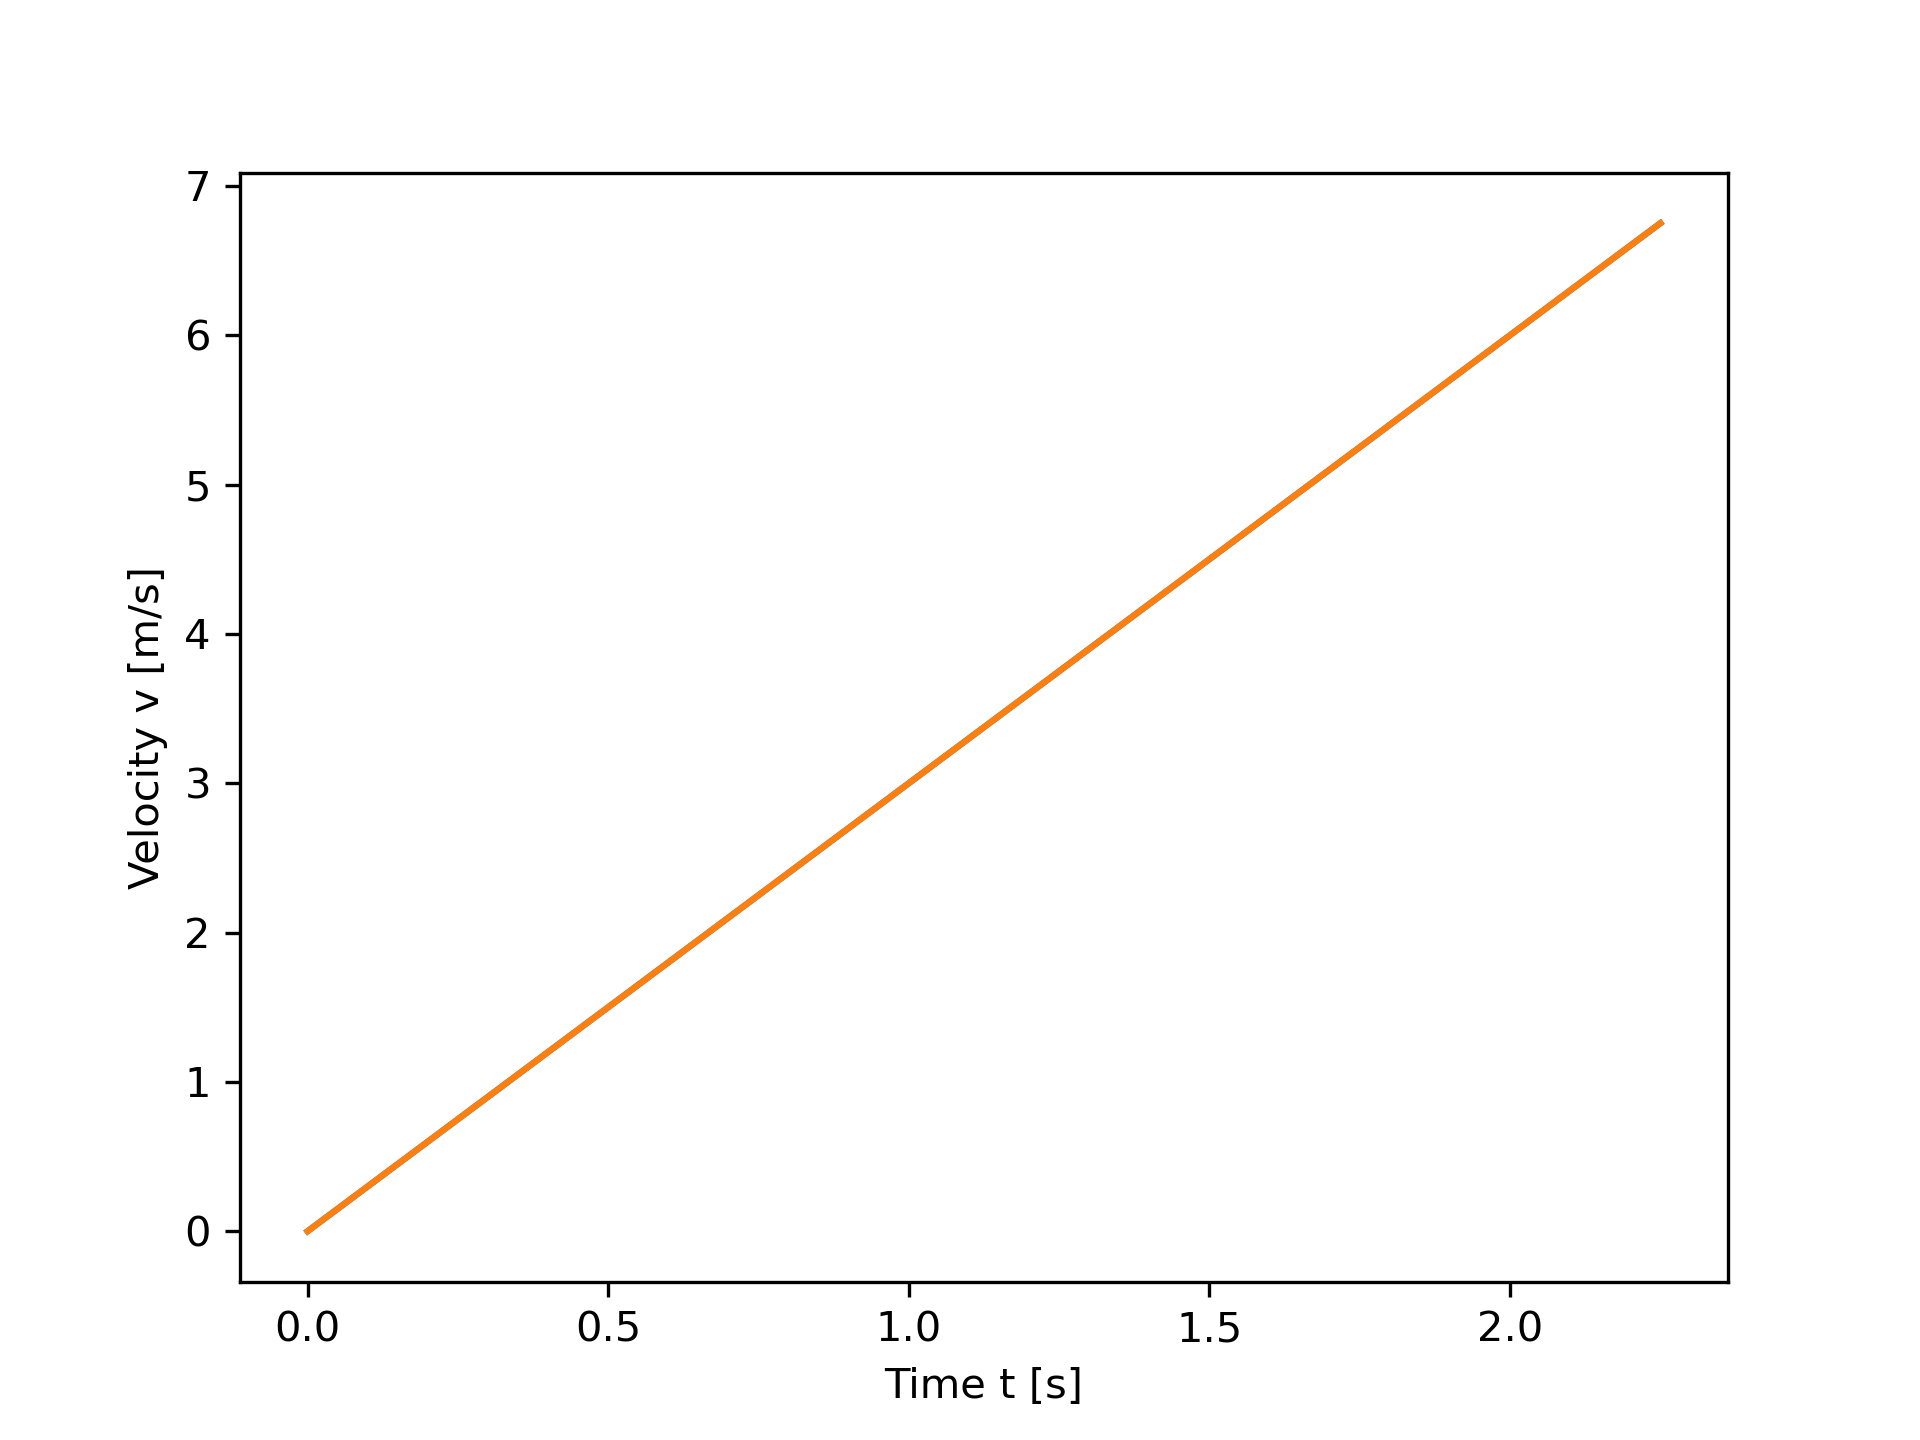
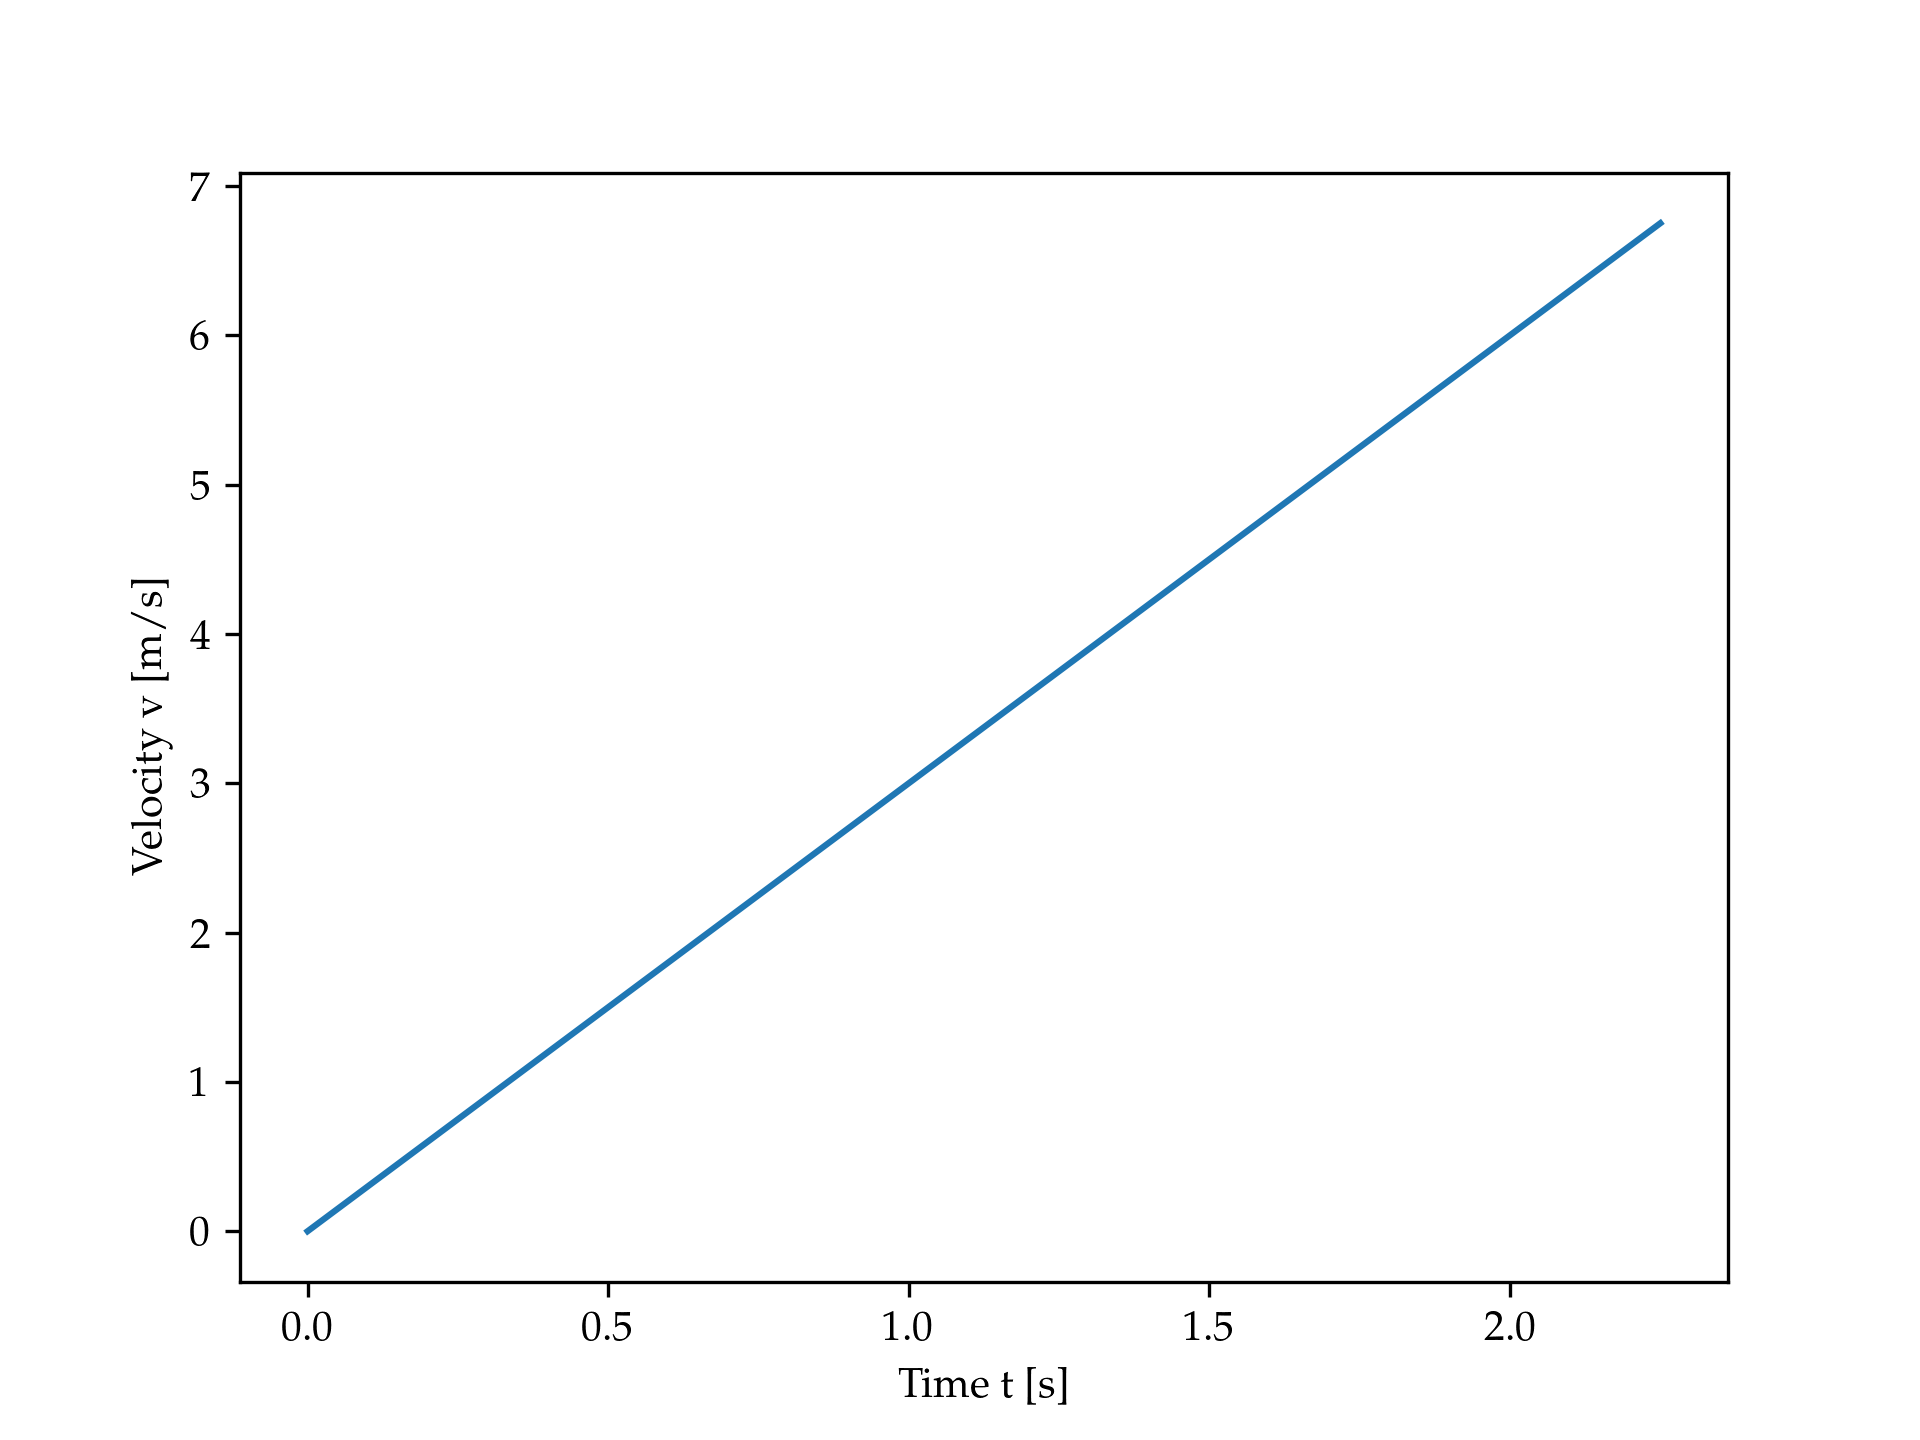
Added testing functions and code for accuracy and comparision of timesteps to reproduce findings from the script

diff --git a/tests.py b/tests.py
@@ -1,61 +1,105 @@
 import pytest
 import numpy as np
+import matplotlib.pyplot as plt
+from matplotlib import rc
 from MIT1690.fallingSphere import (discretize_time, approximate_reynolds, discretize_time,
-                                   integrate_forward_euler,integrate_midpoint_rule, plot_results,
+                                   integrate_forward_euler, integrate_midpoint_rule, plot_results,
                                    forward_euler, midpoint_rule)
+from MIT1690.accuracy import find_best_multistep, calculate_error, comparison_function, analytical_solution_comparison
+rc('font', **{'family':'serif','serif':['Palatino']})
+rc('text', usetex=True)
 
-def test_grid():
+def test_find_best_multistep():
     """
-    tests the evenly spaced grid
+
     :return:
     :rtype:
     """
-    initial_value = 0
-    end_value = 25
-    step = 0.25
-    grid = discretize_time(initial_value = initial_value, end_value=end_value, step=step)
-    print(grid)
-    compare = np.linspace(0, 25, int((end_value-initial_value)/step)+1)
-    assert np.allclose(grid, compare)
+    matrix=np.array([[-1, -1, 0, 0, ],
+                     [0, 1, 1, 1, ],
+                     [0, -1 / 2, 0, -1, ],
+                     [0, 1 / 6, 0, 1 / 2]])
+    b=np.array([1, 1, 1 / 2, 1 / 6])
+    result=find_best_multistep(matrix=matrix, b=b)
+    assert np.allclose(result[0], np.array([4., -5., 4., 2.])), "Result is not correct"
+    assert result[2] == 4, "Rank is not correct"
+    assert np.allclose(result[3],
+                       np.array([2.13460551, 1.23108946, 0.67337816, 0.04709258])), "Residuals are not correct"
 
-def test_reynolds():
+def test_comparison_function():
     """
-    Tests if the Reynolds function works
+
     :return:
     :rtype:
     """
-    density, velocity, radius, mu_g = 9, 0.001, 0.01, 1.5E-5
-    re = approximate_reynolds(density = density, velocity= velocity, radius=radius, mu_g=mu_g)
-    assert re != 0
-
+    grid = [0.1, 0.2, 0.3]
+    vals = []
+    for point in grid:
+        vals.append(comparison_function(point))
+    assert np.allclose(np.array(vals), np.array([-0.1**(2), -0.2**(2), -0.3**(2)]))
+def test_forward_euler_accuracy():
+    """
+    Tests the accuracy of forward Euler and plots the results
+    :return:
+    :rtype:
+    """
+    initial_time=0.001
+    initial_velocity=1
+    end_value=10
+    timesteps=[0.1, 0.2, 0.4]
+    markers = [".", "1", "h"]
+    grids=[]
+    integrations=[]
+    analytical_solutions=[]
+    for i in range(len(timesteps)):
+        grids.append(discretize_time(initial_value=initial_time, end_value=end_value, step=timesteps[i]))
+        integrations.append(integrate_forward_euler(grids[i], timesteps[i], initial_velocity=initial_velocity,
+                                                    function=comparison_function, numerical_method=forward_euler))
+        analytical_solutions.append(analytical_solution_comparison(grids[i]))
+        plt.plot(grids[i], integrations[i], markers[i], label= "$\Delta t$ = "+str(timesteps[i]))
+    plt.plot(grids[i], analytical_solutions[i], color = "black", label="Analytical solution")
+    plt.legend()
+    plt.xlabel("t [s]")
+    plt.ylabel("v  [m/s]")
+    plt.savefig("forward_euler_compare_res.png", dpi=300)
+    plt.close()
+    for i in range(len(integrations)):
+        plt.plot(grids[i], calculate_error(integrations[i], analytical_solutions[i]), markers[i],
+                 label= "$\Delta t$ = "+str(timesteps[i]))
+    plt.xlabel("t [s]")
+    plt.ylabel("Integration error  [m/s]")
+    plt.legend()
+    plt.savefig("forward_euler_errors.png", dpi=300)
 def test_forward_euler():
     """
     Tests the forward Euler integration scheme
     :return:
     :rtype:
     """
-    initial_time = 0
-    initial_velocity = 0
-    end_value =2.25
-    timestep = 0.25
-    grid = discretize_time(initial_value=initial_time, end_value=end_value, step=0.25)
-    integration = integrate_forward_euler(grid, timestep, initial_velocity=initial_velocity,
-                                          function = linear_explicit, numerical_method = forward_euler)
-    analytical_solution = analytical_linear_function()
+    initial_time=0
+    initial_velocity=0
+    end_value=2.25
+    timestep=0.25
+    grid=discretize_time(initial_value=initial_time, end_value=end_value, step=0.25)
+    integration=integrate_forward_euler(grid, timestep, initial_velocity=initial_velocity,
+                                        function=linear_explicit, numerical_method=forward_euler)
+    analytical_solution=analytical_linear_function()
     assert np.allclose(analytical_solution, integration)
-    plot_results(grid=grid, integration=integration, file_name = "forward_euler.png")
+    plot_results(grid=grid, integration=integration, file_name="forward_euler.png")
+
 
 def test_linear_explicit():
     initial_time=0
     initial_velocity=0
     end_value=2.25
     timestep=0.25
-    grid = discretize_time(initial_value=initial_time, end_value=end_value, step=timestep)
-    result = np.zeros(len(grid))
-    result[0] = initial_velocity
-    for i in range(len(grid)-1):
-        result[i+1] = result[i] + 0.25 * linear_explicit(result[i])
+    grid=discretize_time(initial_value=initial_time, end_value=end_value, step=timestep)
+    result=np.zeros(len(grid))
+    result[0]=initial_velocity
+    for i in range(len(grid) - 1):
+        result[i + 1]=result[i] + 0.25 * linear_explicit(result[i])
     assert np.allclose(result, analytical_linear_function())
+
 
 def test_midpoint_rule():
     """
@@ -63,17 +107,44 @@ def test_midpoint_rule():
     :return:
     :rtype:
     """
-    initial_time = 0
-    initial_velocity = 0
-    end_value =2.25
-    timestep = 0.25
-    grid = discretize_time(initial_value=initial_time, end_value=end_value, step=0.25)
-    integration = integrate_midpoint_rule(grid, timestep, initial_velocity=initial_velocity,
-                                          function = linear_explicit, numerical_method_t0 = forward_euler)
-    analytical_solution = analytical_linear_function()
+    initial_time=0
+    initial_velocity=0
+    end_value=2.25
+    timestep=0.25
+    grid=discretize_time(initial_value=initial_time, end_value=end_value, step=0.25)
+    integration=integrate_midpoint_rule(grid, timestep, initial_velocity=initial_velocity,
+                                        function=linear_explicit, numerical_method_t0=forward_euler)
+    analytical_solution=analytical_linear_function()
     print(integration)
     assert np.allclose(analytical_solution, integration)
-    plot_results(grid=grid, integration=integration, file_name = "midpoint_rule.png")
+    plot_results(grid=grid, integration=integration, file_name="midpoint_rule.png")
+
+
+def test_grid():
+    """
+    tests the evenly spaced grid
+    :return:
+    :rtype:
+    """
+    initial_value=0
+    end_value=25
+    step=0.25
+    grid=discretize_time(initial_value=initial_value, end_value=end_value, step=step)
+    print(grid)
+    compare=np.linspace(0, 25, int((end_value - initial_value) / step) + 1)
+    assert np.allclose(grid, compare)
+
+
+def test_reynolds():
+    """
+    Tests if the Reynolds function works
+    :return:
+    :rtype:
+    """
+    density, velocity, radius, mu_g=9, 0.001, 0.01, 1.5E-5
+    re=approximate_reynolds(density=density, velocity=velocity, radius=radius, mu_g=mu_g)
+    assert re != 0
+
 
 def linear_explicit(x_val):
     """
@@ -83,10 +154,11 @@ def linear_explicit(x_val):
     """
     return 3
 
+
 def analytical_linear_function():
     """
     Provides a simple analytical test for the numerical schemes
     :return:
     :rtype:
     """
-    return [ 0. ,  0.75,  1.5,   2.25 , 3.,    3.75,  4.5,   5.25,  6., 6.75]
+    return [0., 0.75, 1.5, 2.25, 3., 3.75, 4.5, 5.25, 6., 6.75]

diff --git a/accuracy.py b/accuracy.py
@@ -1,0 +1,47 @@
+import numpy as np
+
+
+def find_best_multistep(matrix, b):
+    """
+    finds the best multistep for a given taylor expansion
+    :param matrix:
+    :type matrix:
+    :return:
+    :rtype:
+    """
+    return np.linalg.lstsq(matrix, b)
+
+
+def calculate_error(approximation, base_values):
+    """
+    calculates the error of a solution
+    :param approximation:
+    :type approximation:
+    :param base_values:
+    :type base_values:
+    :return:
+    :rtype: np.ndarray
+    """
+    return np.abs(approximation-base_values)
+
+
+def comparison_function(x_val):
+    """
+    returns the explicit comparison function f(u,t)=u^2
+    :param grid:
+    :type grid:
+    :return:
+    :rtype:
+    """
+    return -x_val**(2)
+
+def analytical_solution_comparison(grid):
+    """
+    calculates the analytical solution to the comparison function f(u,t) = u^2,
+    u = (1+t)^(-1)
+    :param grid: array
+    :type grid:
+    :return: solution
+    :rtype:
+    """
+    return 1/(1+grid)

diff --git a/fallingSphere.py b/fallingSphere.py
@@ -155,3 +155,4 @@ def plot_results(grid, integration, file_name):
     plt.xlabel("Time t [s]")
     plt.ylabel("Velocity v [m/s]")
     plt.savefig(file_name, dpi=300)
+    plt.close()
